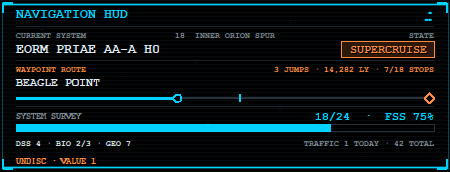
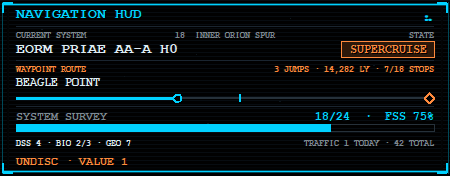
Improve Navigation HUD readability

Changed region(s): [[0.0311, 0.0581, 0.9644, 0.9593], [0.0311, 0.0291, 0.3111, 0.1163]]

diff --git a/hud.py b/hud.py
@@ -23,7 +23,7 @@ class TacticalHUD:
         self.full_width = 560
         self.full_height = 224
         self.compact_width = 450
-        self.compact_height = 172
+        self.compact_height = 176
         self.width, self.base_height = self._target_dimensions()
         self.canvas = tk.Canvas(self.win, width=self.width, height=self.base_height, bg=overlay_bg, highlightthickness=0)
         self.canvas.pack()
@@ -309,7 +309,7 @@ class TacticalHUD:
         self.draw_fitted_text(
             x, y, text,
             COLOR_ACCENT if crossed else "#7d8891",
-            size=6, max_width=max(60, max_width), anchor="center",
+            size=7, max_width=max(60, max_width), anchor="center",
         )
 
     def _badge_color(self, state):
@@ -326,7 +326,7 @@ class TacticalHUD:
     def _draw_badge(self, x, y, text, state="muted", height=18):
         color = self._badge_color(state)
         label = f"{self._BADGE_GLYPHS.get(state, '○')} {text}"
-        font = tkfont.Font(family="Courier", size=8, weight="bold")
+        font = tkfont.Font(family="Courier", size=9, weight="bold")
         text_w = font.measure(label)
         width = max(52, text_w + 16)
         cx, cy = x + width / 2, y + height / 2
@@ -411,7 +411,7 @@ class TacticalHUD:
         )
         self.draw_text(
             (left_x + right_x) / 2, center_y,
-            text=label, fill=color, font=("Courier", 8, "bold"), anchor="center",
+            text=label, fill=color, font=("Courier", 9, "bold"), anchor="center",
         )
         return width
 
@@ -586,46 +586,46 @@ class TacticalHUD:
         attention_text, attention_state = self._attention_summary(nav_context)
 
         self._draw_chrome(bracket_len=10)
-        self.draw_text(16, 14, text="NAVIGATION HUD", fill=COLOR_ACCENT, font=("Courier", 10, "bold"), anchor="w")
+        self.draw_text(16, 14, text="NAVIGATION HUD", fill=COLOR_ACCENT, font=("Courier", 11, "bold"), anchor="w")
         self._draw_title_anim()
         self.canvas.create_line(16, 26, w - 16, 26, fill="#1a2530", width=1)
 
         # System / state
-        self.draw_text(16, 35, text="CURRENT SYSTEM", fill="#7d8891", font=("Courier", 6, "bold"), anchor="w")
-        self.draw_text(w - 16, 35, text="STATE", fill="#7d8891", font=("Courier", 6, "bold"), anchor="e")
+        self.draw_text(16, 35, text="CURRENT SYSTEM", fill="#7d8891", font=("Courier", 7, "bold"), anchor="w")
+        self.draw_text(w - 16, 35, text="STATE", fill="#7d8891", font=("Courier", 7, "bold"), anchor="e")
         self._draw_region_label(nav_context, (16 + (w - 16)) // 2, 35, max_width=w - 210)
         pill_width = self._draw_status_pill(w - 16, 49, state_text, state_color, height=16)
         self.draw_fitted_text(
             16, 49, str(current_display).upper(), COLOR_TEXT,
-            size=10, max_width=w - pill_width - 52, anchor="w",
+            size=11, max_width=w - pill_width - 52, anchor="w",
         )
         self.canvas.create_line(16, 60, w - 16, 60, fill="#1a2530", width=1)
 
         # Route
         left_x, right_x = 16, w - 16
         self.draw_text(left_x, 69, text=route["source"], fill=COLOR_ORANGE if route["active"] else "#7d8891",
-                       font=("Courier", 6, "bold"), anchor="w")
-        self.draw_fitted_text(right_x, 69, route["meta"], COLOR_ORANGE, size=6,
+                       font=("Courier", 7, "bold"), anchor="w")
+        self.draw_fitted_text(right_x, 69, route["meta"], COLOR_ORANGE, size=7,
                               max_width=190, anchor="e")
         self.draw_fitted_text(left_x, 82, route["target"], COLOR_TEXT if route["active"] else "#7d8891",
-                              size=8, max_width=w - 32, anchor="w")
+                              size=9, max_width=w - 32, anchor="w")
         self._draw_route_track(left_x, right_x - 5, 98, route)
         self.canvas.create_line(16, 106, w - 16, 106, fill="#1a2530", width=1)
 
         # Survey progress remains permanently visible, including on known systems.
-        self.draw_text(16, 116, text="SYSTEM SURVEY", fill="#7d8891", font=("Courier", 7, "bold"), anchor="w")
+        self.draw_text(16, 116, text="SYSTEM SURVEY", fill="#7d8891", font=("Courier", 8, "bold"), anchor="w")
         self.draw_text(w - 16, 116, text=scan_progress_text, fill=scan_color,
-                       font=("Courier", 8, "bold"), anchor="e")
+                       font=("Courier", 9, "bold"), anchor="e")
         self._draw_progress_track(16, w - 16, 124, pct, scan_color)
-        self.draw_fitted_text(16, 143, survey_text, COLOR_TEXT, size=6, max_width=245, anchor="w")
-        self.draw_fitted_text(w - 16, 143, traffic_text, "#7d8891", size=6, max_width=175, anchor="e")
+        self.draw_fitted_text(16, 143, survey_text, COLOR_TEXT, size=7, min_size=6, max_width=235, anchor="w")
+        self.draw_fitted_text(w - 16, 143, traffic_text, "#7d8891", size=7, min_size=6, max_width=185, anchor="e")
 
         if attention_text:
             attention_color = self._badge_color(attention_state)
-            self.draw_fitted_text(16, 161, attention_text, attention_color, size=7, max_width=w - 32, anchor="w")
+            self.draw_fitted_text(16, 161, attention_text, attention_color, size=8, min_size=7, max_width=w - 32, anchor="w")
         elif nav_context.get("docked") and nav_context.get("station"):
             self.draw_fitted_text(16, 161, f"STATION · {nav_context['station']}", COLOR_ACCENT,
-                                  size=7, max_width=w - 32, anchor="w")
+                                  size=8, min_size=7, max_width=w - 32, anchor="w")
 
     def update(
         self,
@@ -681,13 +681,13 @@ class TacticalHUD:
         attention_text, attention_state = self._attention_summary(nav_context)
 
         self._draw_chrome(bracket_len=14)
-        self.draw_text(20, 18, text="NAVIGATION HUD", fill=COLOR_ACCENT, font=("Courier", 10, "bold"), anchor="w")
+        self.draw_text(20, 18, text="NAVIGATION HUD", fill=COLOR_ACCENT, font=("Courier", 11, "bold"), anchor="w")
         self._draw_title_anim()
         self.canvas.create_line(20, 32, w - 20, 32, fill="#1a2530", width=1)
 
         # ── System / State ──────────────────────────────────────────────
-        self.draw_text(20, 44, text="CURRENT SYSTEM", fill="#7d8891", font=("Courier", 6, "bold"), anchor="w")
-        self.draw_text(w - 20, 44, text="STATE", fill="#7d8891", font=("Courier", 6, "bold"), anchor="e")
+        self.draw_text(20, 44, text="CURRENT SYSTEM", fill="#7d8891", font=("Courier", 7, "bold"), anchor="w")
+        self.draw_text(w - 20, 44, text="STATE", fill="#7d8891", font=("Courier", 7, "bold"), anchor="e")
         self._draw_region_label(nav_context, (20 + (w - 20)) // 2, 44, max_width=w - 220)
         pill_width = self._draw_status_pill(w - 20, 60, state_text, state_color, height=18)
         self.draw_fitted_text(20, 60, str(current_display).upper(), COLOR_TEXT, size=13,
@@ -697,21 +697,21 @@ class TacticalHUD:
         # ── Route ────────────────────────────────────────────────────────
         left_x, right_x = 20, w - 20
         self.draw_text(left_x, 84, text=route["source"], fill=COLOR_ORANGE if route["active"] else "#7d8891",
-                       font=("Courier", 7, "bold"), anchor="w")
-        self.draw_fitted_text(right_x, 84, route["meta"], COLOR_ORANGE, size=7,
+                       font=("Courier", 8, "bold"), anchor="w")
+        self.draw_fitted_text(right_x, 84, route["meta"], COLOR_ORANGE, size=8,
                               max_width=270, anchor="e")
         self.draw_fitted_text(left_x, 101, route["target"], COLOR_TEXT if route["active"] else "#7d8891",
-                              size=11, max_width=w - 40, anchor="w")
+                              size=12, max_width=w - 40, anchor="w")
         self._draw_route_track(left_x, right_x - 5, 118, route)
         self.canvas.create_line(20, 130, w - 20, 130, fill="#1a2530", width=1)
 
         # ── Survey ───────────────────────────────────────────────────────
-        self.draw_text(20, 143, text="SYSTEM SURVEY", fill="#7d8891", font=("Courier", 7, "bold"), anchor="w")
+        self.draw_text(20, 143, text="SYSTEM SURVEY", fill="#7d8891", font=("Courier", 8, "bold"), anchor="w")
         self.draw_text(w - 20, 143, text=scan_progress_text, fill=scan_color,
-                       font=("Courier", 9, "bold"), anchor="e")
+                       font=("Courier", 10, "bold"), anchor="e")
         self._draw_progress_track(20, w - 20, 152, pct, scan_color)
-        self.draw_fitted_text(20, 174, survey_text, COLOR_TEXT, size=8, max_width=315, anchor="w")
-        self.draw_fitted_text(w - 20, 174, traffic_text, "#7d8891", size=7, max_width=215, anchor="e")
+        self.draw_fitted_text(20, 174, survey_text, COLOR_TEXT, size=9, min_size=7, max_width=315, anchor="w")
+        self.draw_fitted_text(w - 20, 174, traffic_text, "#7d8891", size=8, min_size=7, max_width=215, anchor="e")
         self.canvas.create_line(20, 190, w - 20, 190, fill="#1a2530", width=1)
 
         # ── Context / attention ──────────────────────────────────────────
@@ -721,16 +721,16 @@ class TacticalHUD:
         elif nav_context.get("body"):
             context_detail = f"BODY · {nav_context['body']}"
         if context_detail:
-            self.draw_fitted_text(20, 208, context_detail, COLOR_ACCENT, size=8,
+            self.draw_fitted_text(20, 208, context_detail, COLOR_ACCENT, size=9,
                                   max_width=310, anchor="w")
         elif attention_text:
             self.draw_fitted_text(20, 208, attention_text, self._badge_color(attention_state),
-                                  size=8, max_width=310, anchor="w")
+                                  size=9, max_width=310, anchor="w")
 
         if context_detail and attention_text:
             self.draw_fitted_text(w - 20, 208, attention_text, self._badge_color(attention_state),
-                                  size=8, max_width=210, anchor="e")
+                                  size=9, max_width=210, anchor="e")
         elif not context_detail and not attention_text:
             self.draw_text(20, 208, text="NAVIGATION NOMINAL", fill="#7d8891",
-                           font=("Courier", 8, "bold"), anchor="w")
+                           font=("Courier", 9, "bold"), anchor="w")
         self._last_render_fingerprint = render_fingerprint
